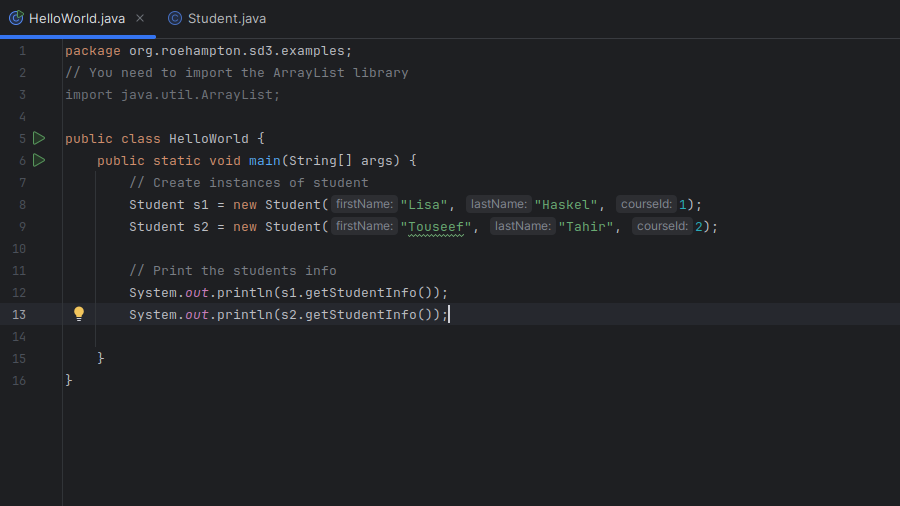
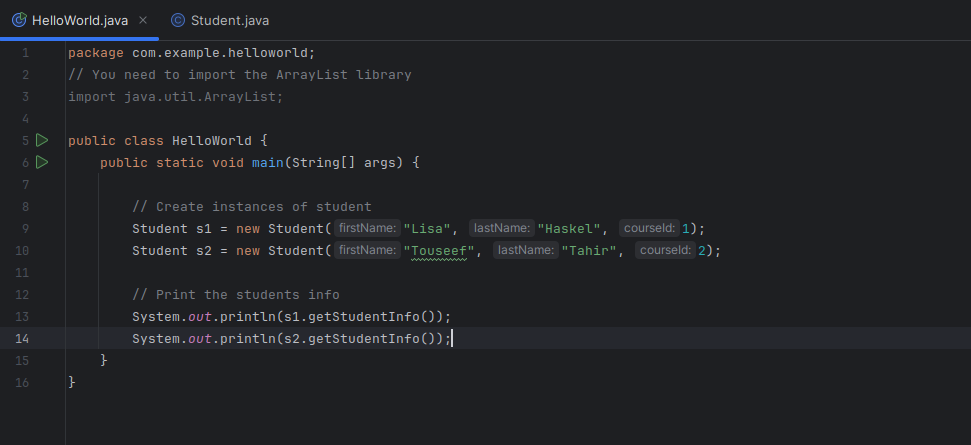
Lab 1 sheet updated and completed

diff --git a/software-development-3/week-01/lab/README.md b/software-development-3/week-01/lab/README.md
@@ -26,11 +26,11 @@ Stop at the heading 'Package the application in a JAR'. We will cover this later
 If you have followed the above tutorial you will have a single Java class with the following code.
 
 ```java
-package org.roehampton.sd3.examples;
+package com.example.helloworld;
 
 public class HelloWorld {
     public static void main(String[] args) {
-        System.out.println("hello world");
+        System.out.println("HelloWord");
     }
 }
 ```
@@ -106,7 +106,7 @@ Create an ArrayList as follows (there are various collection types in java) by a
 
 
 ```java
-package org.roehampton.sd3.examples;
+package com.example.helloworld;
 // You need to import the ArrayList library
 import java.util.ArrayList;
 
@@ -132,15 +132,25 @@ public class HelloWorld {
 }
 ```
 
-__Task 1:__ Amend the code so that you also print the array index for each of the array elements.  HINT: In a Java for loop you cannot access the index directly.  Instead you can use the indexOf() method of the ArrayList, so for our example try:
+__Task 1:__ 
+
+Amend the code so that you also print the array index for each of the array elements.  HINT: In a Java for loop you cannot access the index directly.  Instead you can use the indexOf() method of the ArrayList, so for our example try:
 
 ```myList.indexOf(listElement)```
 
 Why do the index numbers not correspond to the strings?
 
-__Task 2:__ Now amend the contents of the list so that it contains animal names instead of strings of number names, for example, cat, dog, rabbit
+__Task 2:__ 
 
-__Task 3:__ Consider how you might check that the contents of myList is what you expect it to be, before the loop starts.  You might need to check this, for example, if you are not seeing the expected output.  HINT: See what happens if you send an object into ```System.out.println()``` for example:
+Now amend the contents of the list so that it contains animal names instead of strings of number names, for example, cat, dog, rabbit
+
+__Task 3: Basic debugging__ 
+
+Lets pretend you are not seeing the output you expect in your loop.
+You will need to find out if there is an error in the contents of the list OR if your looping code is incorrect.
+The first thing to check is that the contents of the myList are as expected before entering the loop so you will want to examine it.
+The most basic way to do this is to use System.out.println on the entire object ie: add this code before the loop starts and look at the results in the console.
+
 
 ```java
 System.out.println(myList);
@@ -212,9 +222,9 @@ Hello LisaH !
 ```
 
 ```java
-String teacher = "LisaH";
-String hello = string.format("Hello %s", teacher);
-Console.WriteLine(hello);
+        String teacher = "LisaH";
+        String hello = String.format("Hello %s", teacher);
+        System.out.println(hello);
 ```
 
 
